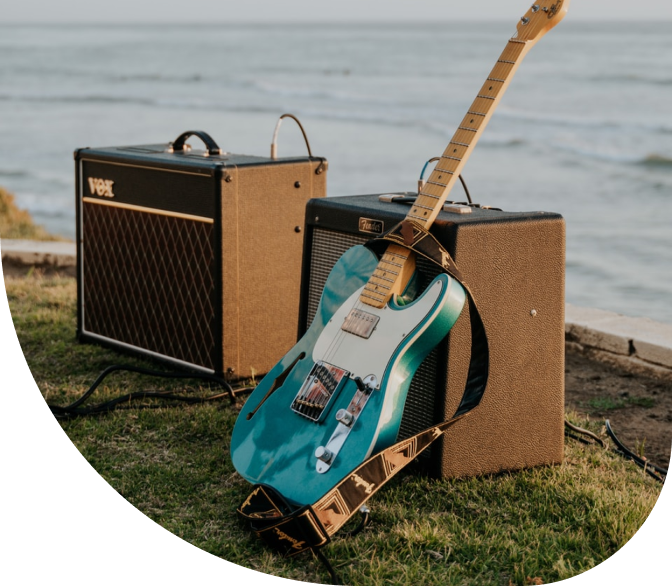
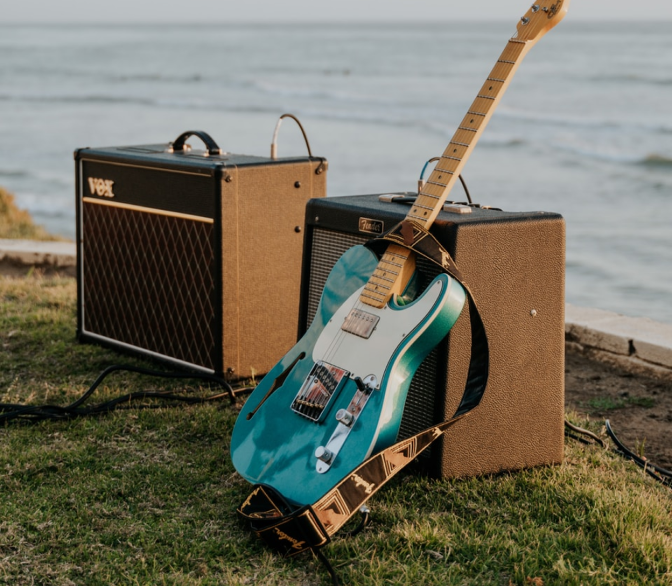
Finished hero section

Changed region(s): [[0.0, 0.4608, 0.5, 1.0], [0.7812, 0.7679, 1.0, 1.0]]

diff --git a/src/scss/layout/_hero-section.scss b/src/scss/layout/_hero-section.scss
@@ -1,0 +1,154 @@
+@import "../variables";
+@import "../mixins";
+@import "../functions";
+
+.hero {
+  &__container {
+    position: relative;
+    display: grid;
+    grid-template-columns: 0.533fr 0.467fr;
+    padding-bottom: rem(80px);
+    max-width: rem(1440px);
+    margin: 0 auto;
+
+    @media only screen and (max-width: $bp-medium) {
+      grid-template-columns: 1fr;
+    }
+  }
+
+  &__content {
+    padding-top: $header-height-desktop;
+    padding-left: rem(120px);
+    display: flex;
+    flex-direction: column;
+    justify-content: center;
+    max-width: percentage(469px, 611px);
+
+    @media only screen and (max-width: $bp-large-medium) {
+      max-width: 90%;
+      margin-right: rem(48px);
+    }
+
+    @media only screen and (max-width: $bp-medium) {
+      max-width: 100%;
+      padding-left: rem(80px);
+      padding-right: rem(80px);
+      padding-top: calc($header-height-mobile + 80px);
+      margin-right: 0;
+    }
+
+    @media only screen and (max-width: $bp-small) {
+      padding-left: rem(48px);
+      padding-right: rem(48px);
+    }
+
+    @media only screen and (max-width: $bp-extra-small) {
+      padding-left: rem(24px);
+      padding-right: rem(24px);
+    }
+  }
+
+  &__title {
+    margin-bottom: rem(16px);
+    @media only screen and (max-width: $bp-medium) {
+      color: $color-white;
+    }
+  }
+
+  &__text {
+    color: $color-text-grey;
+    font-size: rem(16px);
+    font-weight: 500;
+    line-height: rem(24px);
+    letter-spacing: 0;
+    margin-bottom: rem(33px);
+
+    @media only screen and (max-width: $bp-medium) {
+      color: $color-white;
+    }
+  }
+
+  &__actions {
+    display: flex;
+    align-items: center;
+    gap: rem(40px);
+  }
+
+  &__links-container {
+    display: flex;
+    align-items: center;
+    gap: rem(28px);
+  }
+
+  &__link {
+    &:link,
+    &:visited {
+      color: $color-light-grey;
+      transition: all 0.4s;
+
+      @media only screen and (max-width: $bp-medium) {
+       color: $color-white;
+      }
+    }
+
+    &:hover,
+    &:active {
+      color: $color-text-grey;
+      @media only screen and (max-width: $bp-medium) {
+        color: $color-primary;
+      }
+    }
+  }
+
+  &__image {
+    position: relative;
+    padding-bottom: 100%;
+
+    img {
+      position: absolute;
+      width: 100%;
+      height: 100%;
+      border-radius: 0 0 rem(151px) rem(360px);
+
+      @media only screen and (max-width: $bp-large-medium) {
+       filter: grayscale(30%);
+      }
+
+      @media only screen and (max-width: $bp-medium) {
+        border-radius: 0;
+        filter: grayscale(70%) blur(10px) brightness(120%);
+      }
+    }
+
+    &::after {
+      content: "";
+      position: absolute;
+      bottom: 0;
+      left: 52%;
+      transform: translate(0, 50%);
+      z-index: 2;
+      display: inline-block;
+      width: rem(80px);
+      height: rem(80px);
+      background-image: url("../icons/svg/butterfly.svg"), linear-gradient($color-white, $color-white);
+      background-repeat: no-repeat;
+      background-position: center;
+      border-radius: 50%;
+
+      @media only screen and (max-width: $bp-medium) {
+        display: none;
+      }
+    }
+
+    @media only screen and (max-width: $bp-medium) {
+      position: absolute;
+      top: 0;
+      left: 0;
+      width: 100%;
+      height: 100%;
+      z-index: -1;
+      object-fit: cover;
+      padding-bottom: 0;
+    }
+  }
+}

diff --git a/src/index.html b/src/index.html
@@ -46,9 +46,47 @@
         </div>
       </header>
       <main>
-        <section class="hero"></section>
+        <section class="hero">
+          <div class="hero__container">
+            <div class="hero__content">
+              <h1 class="hero__title heading-primary">
+                Browse top quality
+                <span class="u-highlighten">Guitars</span> online
+              </h1>
+              <p class="hero__text">
+                Explore 50k+ latest collections of branded guitars online with
+                Rhythm.
+              </p>
+              <div class="hero__actions">
+                <a class="btn btn--primary" href="#">Get the App</a>
+                <div class="hero__links-container">
+                  <a class="hero__link" href="#">
+                    <svg class="hero__link-icon">
+                      <use href="./icons/sprite.svg#play-store"></use>
+                    </svg>
+                  </a>
+                  <a class="hero__link" href="#">
+                    <svg class="hero__link-icon">
+                      <use href="./icons/sprite.svg#apple-store"></use>
+                    </svg>
+                  </a>
+                </div>
+                
+              </div>
+            </div>
+            <div class="hero__image">
+              <img src="./images/hero-image.png" alt="hero" />
+            </div>
+          </div>
+        </section>
+        <section class="store">
+          <div class="store__container container">
+        </section>
       </main>
-      <footer>footer</footer>
+      <footer class="footer">
+        <div class="footer__container container"> footer</div>
+       
+      </footer>
     </div>
     <script src="./js/script.js"></script>
   </body>

diff --git a/src/scss/layout/_header.scss b/src/scss/layout/_header.scss
@@ -4,12 +4,18 @@
 
 .header {
   position: fixed;
+  z-index: 1000;
   top: 0;
   left: 0;
   width: 100%;
   min-width: 100%;
   height: $header-height-desktop;
   background-color: $color-transparent;
+  transition: all 0.4s;
+
+  &.scrolled:not(.open) {
+    background-color: rgba($color-white, 0.95);
+  }
 
   &__container {
     height: 100%;
@@ -24,6 +30,8 @@
   }
 
   &__logo {
+    position: relative;
+    z-index: 1001;
     &-image {
       width: rem(123px);
     }
@@ -88,18 +96,21 @@
   @media only screen and (max-width: $bp-extra-small) {
     position: absolute;
     left: 0;
-    bottom: 0;
-    transform: translateY(100%);
+    top: 0;
     background-color: rgba($color-white, 0.95);
     box-shadow: 0 8px 16px -8px rgb(17 17 26 / 10%);
     width: 100%;
-    height: 0;
     max-height: 0;
     opacity: 0;
     visibility: hidden;
     overflow: hidden;
     transition: all 0.4s;
     padding: 0 rem(48px);
+
+    @media only screen and (max-width: $bp-extra-small) {
+      padding-right: rem(24px);
+      padding-left: rem(24px);
+    }
   }
 }
 
@@ -164,10 +175,10 @@
 
     .nav {
       max-height: rem(300px);
-      height: 100%;
       opacity: 1;
       visibility: visible;
-      padding: rem(24px) rem(48px);
+      padding-top: calc($header-height-mobile + 24px);
+      padding-bottom: rem(24px);
     }
   }
 }

diff --git a/src/scss/components/_button.scss b/src/scss/components/_button.scss
@@ -1,0 +1,29 @@
+@import "../variables";
+@import "../mixins";
+@import "../functions";
+
+.btn {
+  &,
+  &:link,
+  &:visited {
+    display: inline-block;
+    padding: rem(18px) rem(48px);
+    border-radius: rem(40px);
+    font-size: rem(16px);
+    font-weight: 600;
+    line-height: rem(24px);
+    letter-spacing: 0;
+    text-align: center;
+    transition: all 0.4s;
+  }
+
+  &--primary {
+    color: $color-white;
+    background-color: $color-primary;
+
+    &:hover,
+    &:active {
+        background-color: m-darken($color-primary, 20%);
+    }
+  }
+}

diff --git a/src/scss/_typography.scss b/src/scss/_typography.scss
@@ -1,0 +1,25 @@
+@import "./variables";
+@import "./functions";
+
+.heading-primary {
+  font-family: $font-cal-sans;
+  font-size: rem(56px);
+  font-weight: 600;
+  line-height: rem(67px);
+  letter-spacing: 0;
+  color: $color-black;
+
+  @media only screen and (max-width: $bp-medium) {
+    font-size: rem(36px);
+    line-height: rem(48px);
+  }
+}
+
+.heading-secondary {
+  font-family: $font-cal-sans;
+  font-size: rem(44px);
+  font-weight: 600;
+  line-height: rem(53px);
+  letter-spacing: 0;
+  color: $color-black;
+}

diff --git a/src/js/script.js b/src/js/script.js
@@ -4,3 +4,17 @@ const navBtn = document.querySelector(".menu-btn");
 navBtn.addEventListener("click", () => {
   header.classList.toggle("open");
 });
+
+window.addEventListener("scroll", () => {
+  if (document.documentElement.scrollTop > 0 || document.body.scrollTop > 0) {
+    header.classList.add("scrolled");
+  } else {
+    header.classList.remove("scrolled");
+  }
+});
+
+window.addEventListener("resize", () => {
+  if (header.classList.contains("open")) {
+    header.classList.remove("open");
+  }
+});

diff --git a/src/scss/_base.scss b/src/scss/_base.scss
@@ -31,7 +31,6 @@ body {
 }
 
 .wrapper {
-  overflow: hidden;
   display: flex;
   flex-direction: column;
   height: 100%;
@@ -82,5 +81,10 @@ ul {
   @media only screen and (max-width: $bp-small) {
     padding-right: rem(48px);
     padding-left: rem(48px);
+  }
+
+  @media only screen and (max-width: $bp-extra-small) {
+    padding-right: rem(24px);
+    padding-left: rem(24px);
   }
 }

diff --git a/src/scss/_variables.scss b/src/scss/_variables.scss
@@ -5,9 +5,11 @@ $font-cal-sans: "Cal Sans", sans-serif;
 $color-black: #000;
 $color-white: #fff;
 $color-text-grey: #666;
+$color-light-grey: #B2B2B2;
 $color-primary: #ff6428;
 $color-transparent: transparent;
 $bp-large: 1440px;
+$bp-large-medium: 1200px;
 $bp-medium: 990px;
 $bp-small: 700px;
 $bp-extra-small: 600px;

diff --git a/src/scss/main.scss b/src/scss/main.scss
@@ -2,5 +2,9 @@
 @import "./variables";
 @import "./functions";
 @import "./mixins";
+@import "./utils";
+@import "./typography";
 @import "./base";
+@import "./components/button";
 @import "./layout/header";
+@import "./layout/hero-section";

diff --git a/src/scss/_utils.scss b/src/scss/_utils.scss
@@ -1,3 +1,7 @@
 .u-static {
   overflow: hidden;
 }
+
+.u-highlighten {
+  color: $color-primary;
+}
